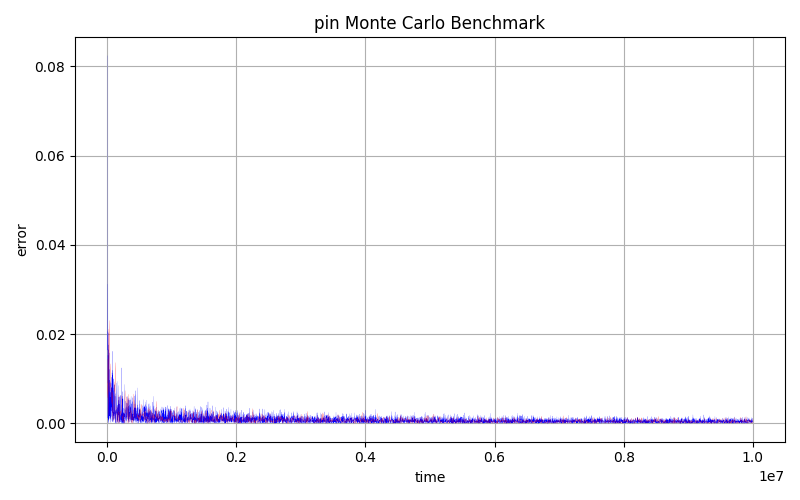
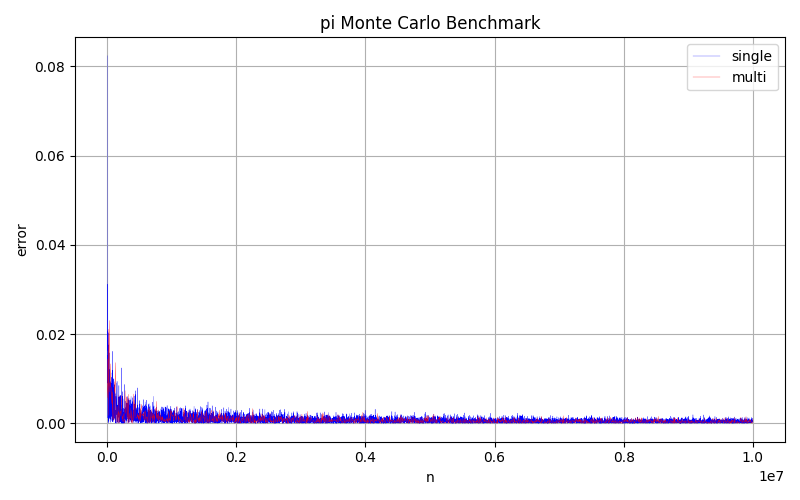
fix plot

diff --git a/lab06/plot_monte.py b/lab06/plot_monte.py
@@ -25,18 +25,19 @@ plt.plot(
     data_single["error"],
     color="blue",
     label="single",
-    linewidth=0.1,
+    linewidth=0.2,
 )
 plt.plot(
     data_multi["error"].index * 5000,
     data_multi["error"],
     color="red",
     label="multi",
-    linewidth=0.1,
+    linewidth=0.2,
 )
-plt.xlabel("time")
+plt.legend()
+plt.xlabel("n")
 plt.ylabel("error")
-plt.title("pin Monte Carlo Benchmark")
+plt.title("pi Monte Carlo Benchmark")
 plt.grid(True)
 plt.tight_layout()
 plt.savefig("mein_plot.png")
